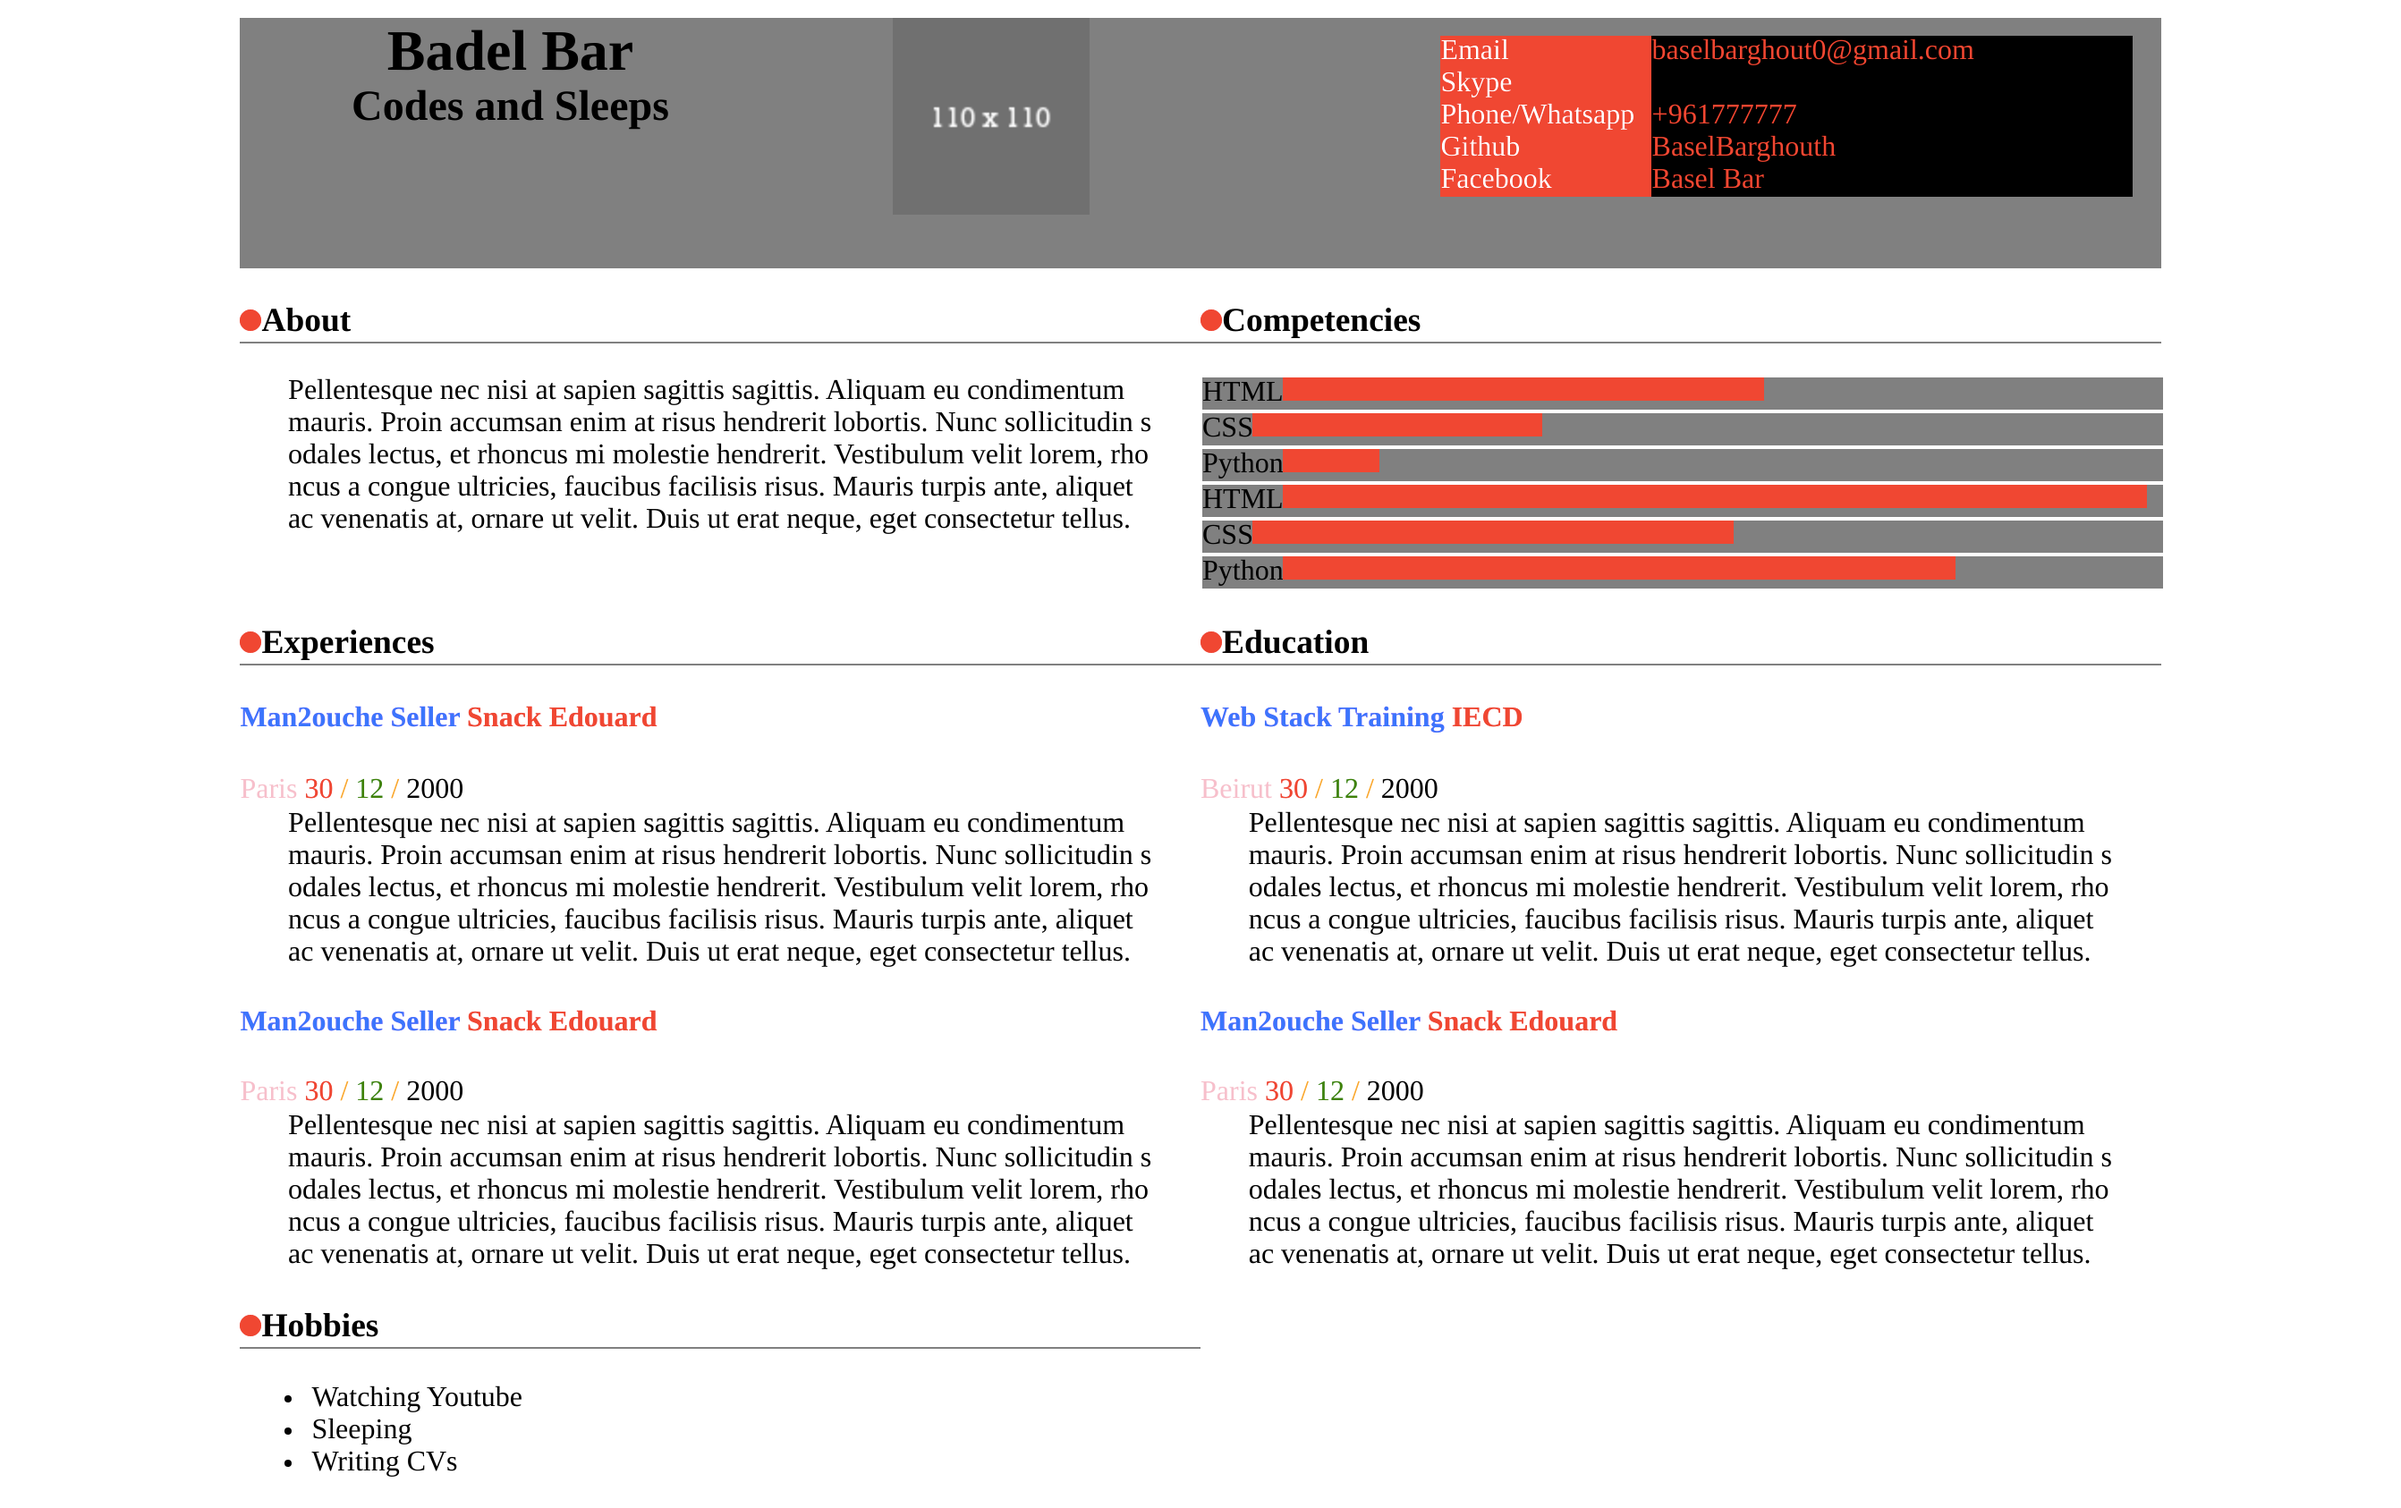
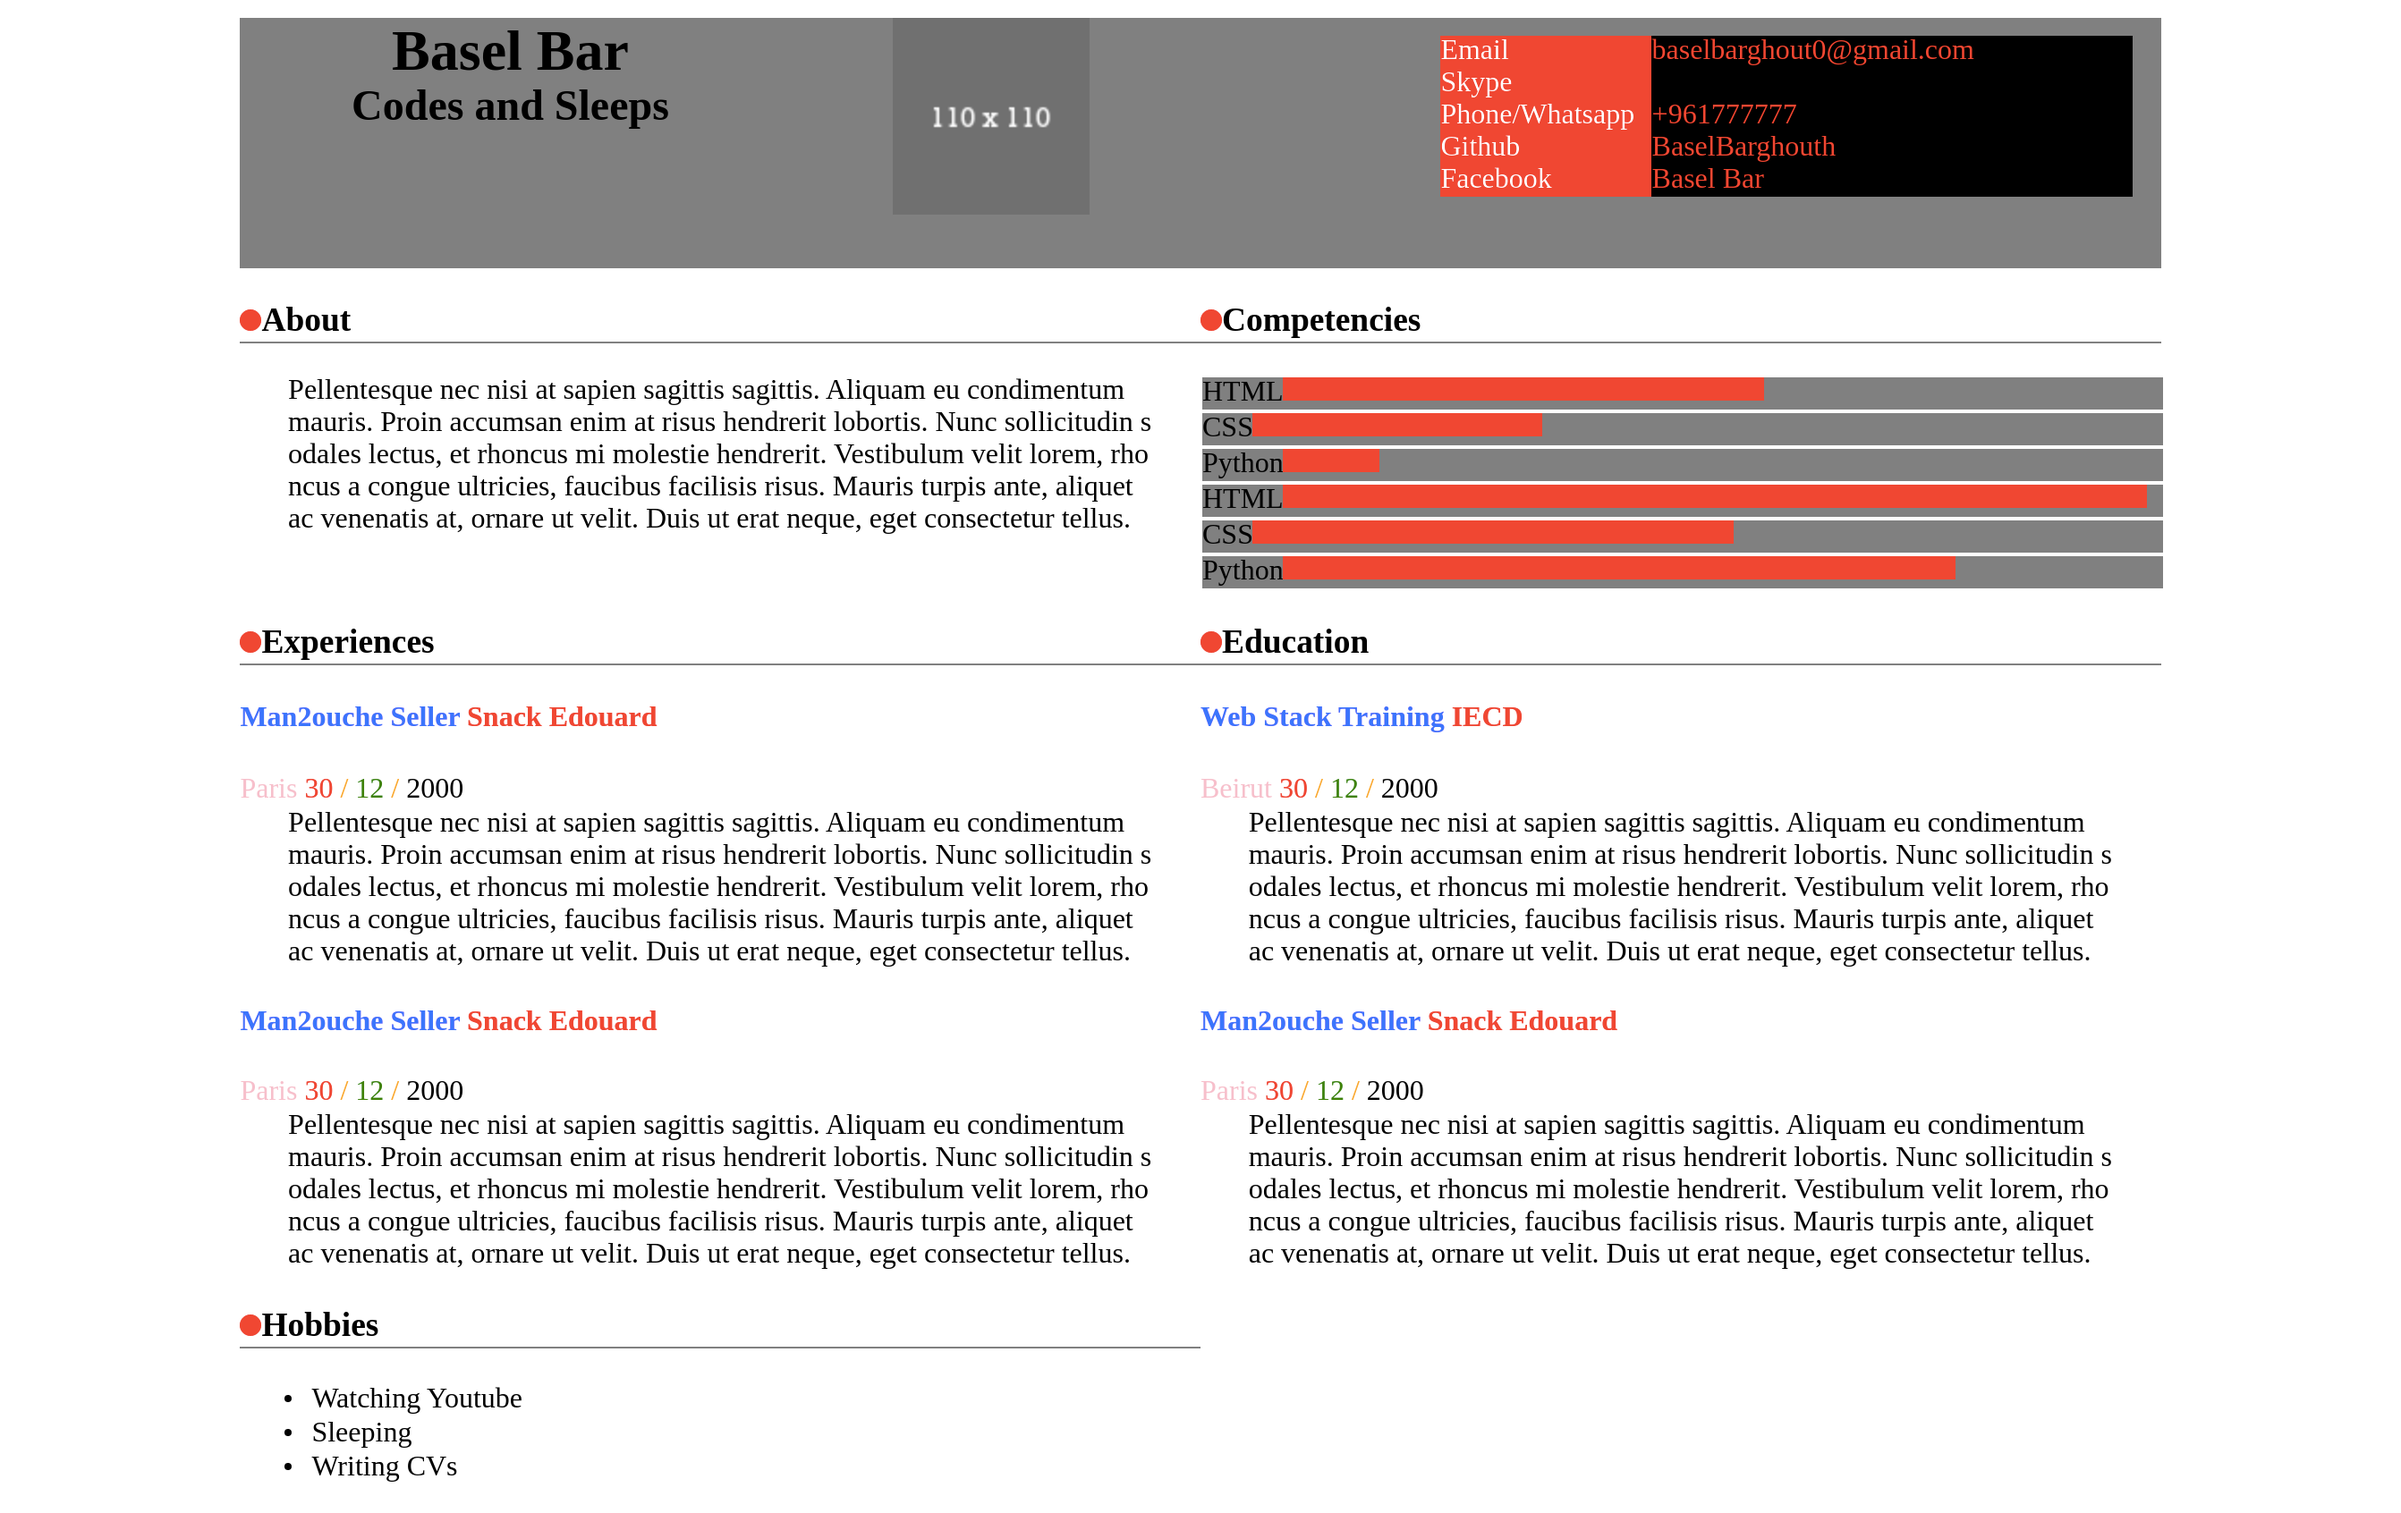
done

diff --git a/HTML&CSS/level-4/stylesheet.css b/HTML&CSS/level-4/stylesheet.css
@@ -1,0 +1,159 @@
+html,
+body {
+  margin: 0px;
+  padding: 0px;
+  border: 0px;
+}
+#\#wrapper {
+  margin: 10px auto 0 auto;
+  width: 80%;
+}
+header {
+  width: 100%;
+  background-color: grey;
+}
+.header {
+  display: flex;
+  width: 50%;
+  justify-content: space-around;
+}
+.content {
+  display: flex;
+  flex-wrap: wrap;
+}
+hgroup,
+figure {
+  margin: 0;
+  height: 140px;
+  text-align: center;
+}
+hgroup h1,
+h2 {
+  margin: 0;
+}
+
+#about,
+#competencies,
+#experiences,
+#hobbies,
+#education {
+  width: 50%;
+}
+
+#contact {
+  position: absolute;
+  top: 20px;
+  right: 0;
+  width: 40%;
+}
+.contact {
+  display: flex;
+  flex-direction: row;
+  margin: 0;
+}
+#contact h3 {
+  display: none;
+}
+.contact-type {
+  background-color: red;
+  width: 22%;
+  color: white;
+}
+.contact-value {
+  background-color: black;
+  margin: 0;
+  width: 50%;
+}
+.contact-value a {
+  text-decoration-style: none;
+  text-decoration-color: black;
+  text-decoration-line: none;
+  color: red;
+}
+section h3 {
+  border-bottom: 1px solid grey;
+}
+h3::before {
+  content: "";
+  height: 12px;
+  width: 12px;
+  background-color: red;
+  border-radius: 50%;
+  display: inline-flex;
+}
+
+.experience-institution,
+.day {
+  color: red;
+}
+.experience-type {
+  color: blue;
+}
+.experience-location {
+  color: pink;
+}
+.experience-date {
+  color: orange;
+}
+.month {
+  color: green;
+}
+.year {
+  color: black;
+}
+p {
+  text-align: left;
+  word-break: break-all;
+  width: 90%;
+  margin: 1px auto;
+}
+.skill {
+  width: 100%;
+  border: 1px solid white;
+  padding: auto 0 auto 0;
+}
+.skill[data-skill="9"] ::after {
+  content: "";
+  height: 13px;
+  width: 90%;
+  background-color: red;
+  display: inline-block;
+}
+.skill {
+  background-color: grey;
+}
+.skill[data-skill="9"] ::after {
+  content: "";
+  height: 13px;
+  width: 90%;
+  background-color: red;
+  display: inline-block;
+}
+.skill[data-skill="5"] ::after {
+  content: "";
+  height: 13px;
+  width: 50%;
+  background-color: red;
+  display: inline-block;
+}
+.skill[data-skill="7"] ::after {
+  content: "";
+  height: 13px;
+  width: 70%;
+  background-color: red;
+  display: inline-block;
+}
+.skill[data-skill="3"] ::after {
+  content: "";
+  height: 13px;
+  width: 30%;
+  background-color: red;
+  display: inline-block;
+}
+.skill[data-skill="1"] ::after {
+  content: "";
+  height: 13px;
+  width: 10%;
+  background-color: red;
+  display: inline-block;
+}

diff --git a/HTML&CSS/level-4/index.html b/HTML&CSS/level-4/index.html
@@ -8,7 +8,7 @@
     <meta name="viewport" content="width=device-width, initial-scale=1.0" />
     <!-- /Meta tags -->
 
-    <title>Base Bar</title>
+    <title>Basel Bar</title>
 
     <!-- Stylesheets -->
     <link rel="stylesheet" href="stylesheet.css" />
@@ -19,7 +19,7 @@
       <header>
         <div class="header">
           <hgroup>
-            <h1>Badel Bar</h1>
+            <h1>Basel Bar</h1>
             <h2>Codes and Sleeps</h2>
           </hgroup>
           <figure>
